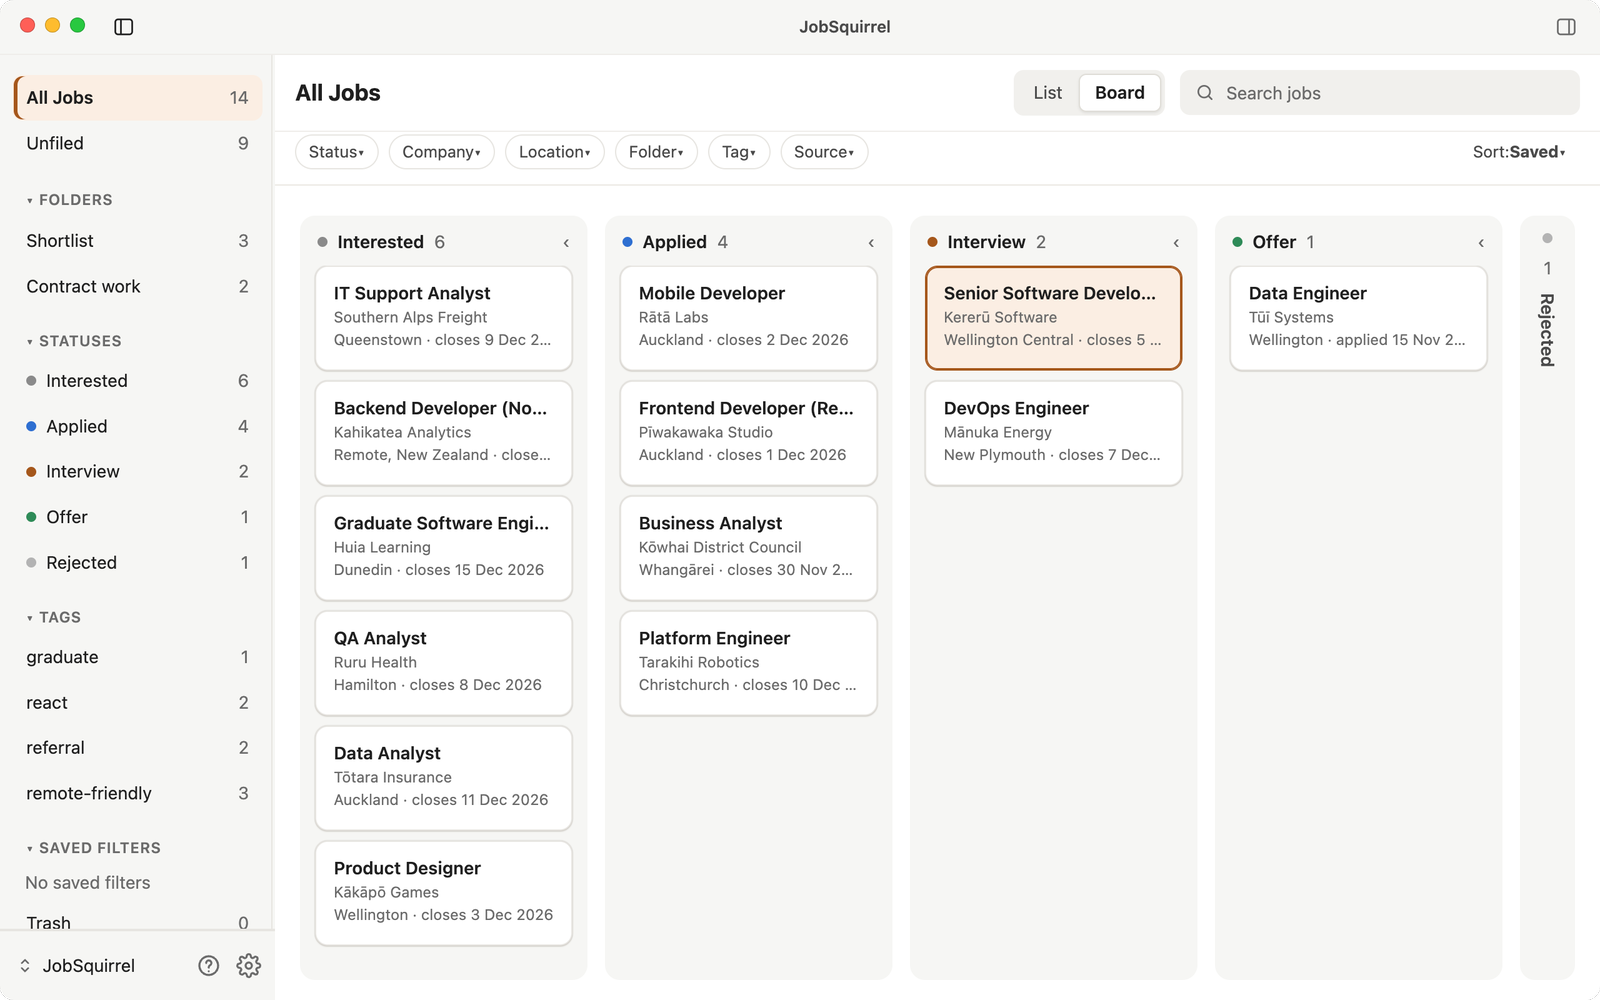
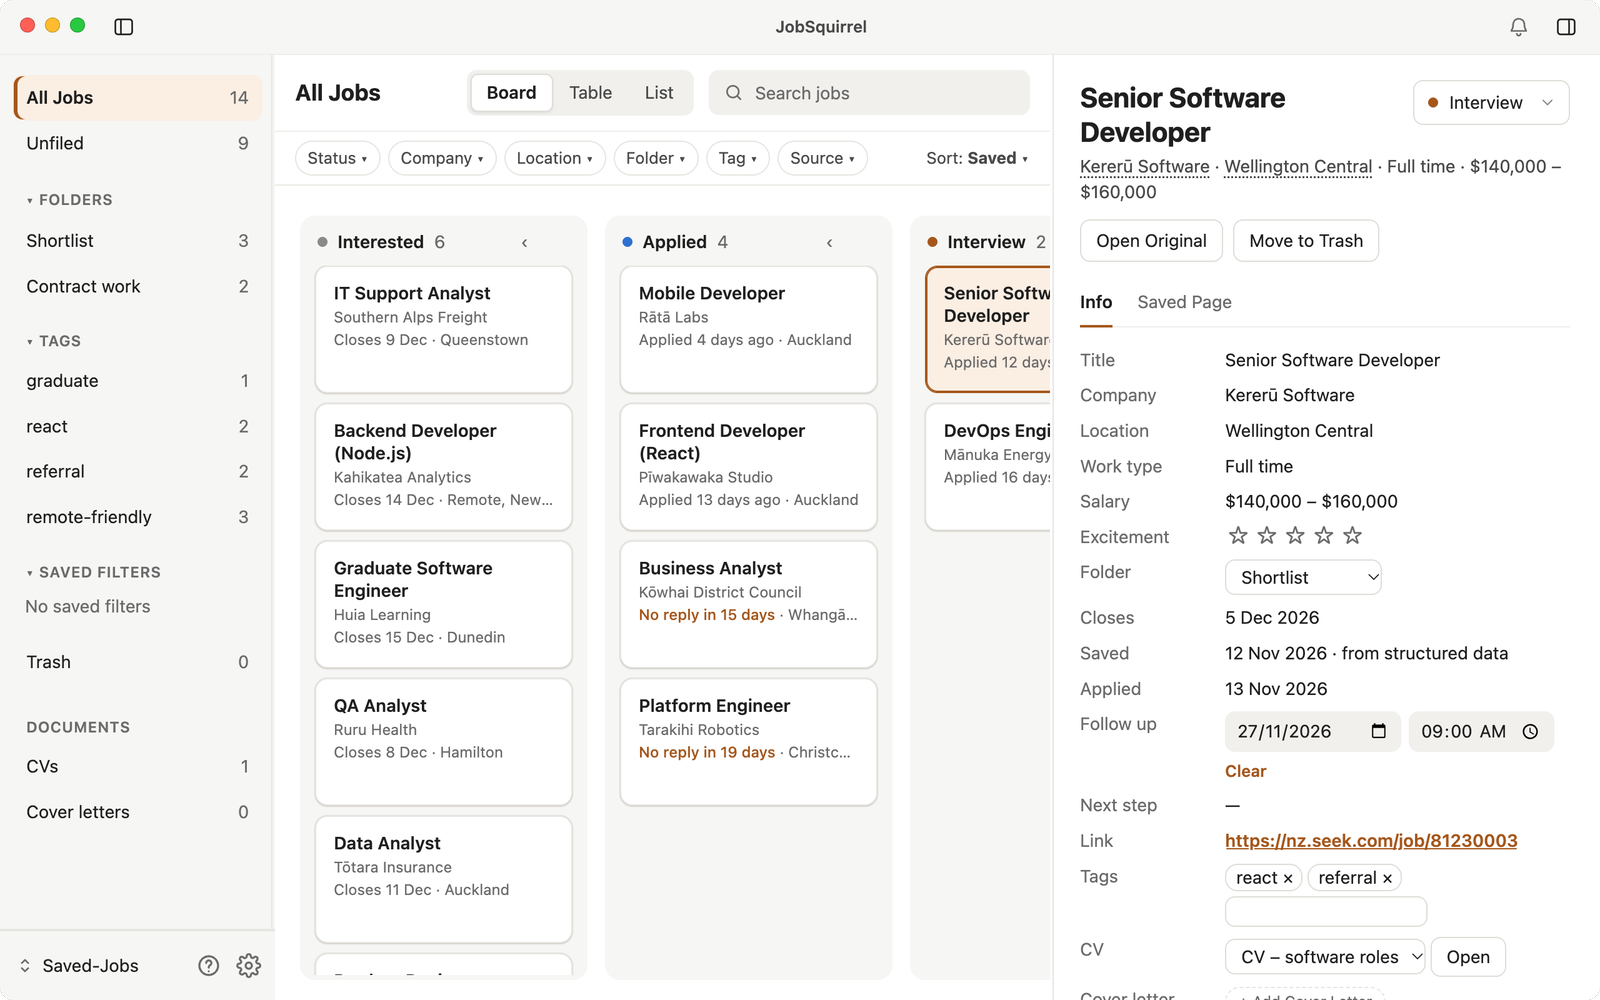
Your personal all-in-one job hunting dashboard: new home page, a contact page, Windows

diff --git a/index.html b/index.html
@@ -3,12 +3,13 @@
 <head>
 <meta charset="utf-8">
 <meta name="viewport" content="width=device-width, initial-scale=1">
-<title>JobSquirrel</title>
-<meta name="description" content="JobSquirrel saves job ads from Seek, Trade Me Jobs, LinkedIn, Indeed and other New Zealand job sites before they disappear, and keeps track of every application. Free to try, and your data stays on your computer.">
+<title>JobSquirrel: your all-in-one job hunting dashboard</title>
+<meta name="description" content="Your personal all-in-one job hunting dashboard. Save any job ad with one click, and see every application, deadline, interview and CV on one screen. Free, for Mac and Windows.">
 <link rel="icon" href="squirrel.svg" type="image/svg+xml">
-<meta property="og:title" content="JobSquirrel">
-<meta property="og:description" content="Save job ads before they disappear, and keep track of every application. Your data stays on your computer.">
+<meta property="og:title" content="JobSquirrel: your all-in-one job hunting dashboard">
+<meta property="og:description" content="Save any job ad with one click. See every application, deadline, interview and CV on one screen.">
 <meta property="og:url" content="https://jobsquirrel.nz/">
+<meta property="og:image" content="https://jobsquirrel.nz/screens/board.png">
 <link rel="stylesheet" href="style.css">
 </head>
 <body>
@@ -18,9 +19,9 @@
     <a class="brand" href="/"><img src="squirrel.svg" alt="" width="40" height="33"> JobSquirrel</a>
     <nav aria-label="Main">
       <a href="#how">How it works</a>
-      <a href="#privacy">Privacy</a>
       <a href="#faq">FAQ</a>
       <a href="help.html">Help</a>
+      <a href="contact.html">Contact</a>
     </nav>
   </header>
 </div>
@@ -48,74 +49,59 @@
 <g class="drop"><ellipse class="nut" cx="150" cy="44" rx="7" ry="9"/><path class="cap" d="M142 39 C142 31 158 31 158 39 Z"/>
 <ellipse class="ink thin" cx="150" cy="44" rx="7" ry="9"/><path class="ink thin" d="M142 39 C142 31 158 31 158 39 Z"/></g>
 </g></svg>
-    <h1>Stash job ads <u>before they disappear.</u></h1>
-    <p>JobSquirrel saves the job ads you care about from Seek, Trade Me Jobs, LinkedIn, Indeed and other New Zealand job sites with one click, and keeps track of every application. Free to try, and everything stays on your computer.</p>
+    <h1>Your personal all-in-one <u>job hunting dashboard.</u></h1>
+    <p>Save any job ad with one click. Then see every application, deadline, interview and CV on one screen.</p>
     <div class="cta">
-      <span class="btn primary" aria-disabled="true">Download for macOS — coming soon</span>
-      <a class="btn ghost" href="https://github.com/jobsquirrel">Follow on GitHub</a>
+      <a class="btn primary" href="https://github.com/foxnz/landfern/releases/latest">Download</a>
+      <a class="btn ghost" href="https://github.com/foxnz/landfern">Star on GitHub</a>
     </div>
-    <p class="note">New Zealand has no wild squirrels. Now it has one.</p>
+    <p class="small">Free · No account · Mac and Windows</p>
+    <figure class="shot shot-main">
+      <img src="screens/board.png" width="1600" height="1000"
+           alt="The JobSquirrel board: jobs as cards in columns from Interested to Offer, with the selected job's salary, closing date, follow-up, tags and CV at the right.">
+    </figure>
   </div>
 
-  <section id="peek">
+  <section id="why">
     <div class="wrap">
-      <h2>A peek inside</h2>
-      <p class="lead">Every job you save, with its ad, your notes, the CV you sent and what happens next, in one calm window.</p>
-      <figure class="shot shot-main">
-        <img src="screens/job-details.png" width="1600" height="1000" loading="lazy"
-             alt="The JobSquirrel window: folders, statuses and tags on the left, saved jobs in the middle, and the selected job's details on the right, with its folder, closing date, follow-up date, tags, the CV sent and notes.">
-      </figure>
-      <div class="shots">
-        <figure class="shot">
-          <img src="screens/board.png" width="1600" height="1000" loading="lazy"
-               alt="Board view: jobs as cards in five columns, Interested, Applied, Interview, Offer and Rejected.">
-          <figcaption>See every application at a glance.</figcaption>
-        </figure>
-        <figure class="shot">
-          <img src="screens/first-open.png" width="1600" height="1000" loading="lazy"
-               alt="The first time you open JobSquirrel: three steps to save your first job, and where your jobs are kept.">
-          <figcaption>Open it and start. No setup.</figcaption>
-        </figure>
-        <figure class="shot">
-          <img src="screens/extension-popup-crop.png" width="720" height="450" loading="lazy"
-               alt="The Chrome extension's popup over a job ad: the job is saved, with its folder, status and tags ready to change.">
-          <figcaption>One click saves the job ad you're reading.</figcaption>
-        </figure>
+      <h2>Sound familiar?</h2>
+      <div class="swaps">
+        <div class="card"><p><s>The ad is gone before your interview.</s></p><p><b>You keep your own copy of it.</b></p></div>
+        <div class="card"><p><s>“Which CV did I send them?”</s></p><p><b>It’s right there, with the job.</b></p></div>
+        <div class="card"><p><s>You missed the closing date.</s></p><p><b>You get a reminder first.</b></p></div>
+        <div class="card"><p><s>A spreadsheet you stopped updating.</s></p><p><b>A board. Drag a card, done.</b></p></div>
       </div>
-      <p class="fine">Screenshots of the app with made-up jobs.</p>
     </div>
   </section>
 
   <section id="how">
     <div class="wrap">
-      <h2>How it works</h2>
-      <p class="lead">A desktop app and a small Chrome extension work together. No account, no sign-up.</p>
+      <h2>See a job. Click. Done.</h2>
+      <figure class="shot shot-main">
+        <img src="screens/save-job.gif" width="1600" height="1000" loading="lazy"
+             alt="On a job ad in Chrome, a click on the squirrel saves the job, and Show in App opens it in JobSquirrel.">
+      </figure>
       <div class="steps">
-        <div class="card">
-          <div class="step">1</div>
-          <h3>Spot a job</h3>
-          <p>Browse Seek, Trade Me Jobs, LinkedIn, graduate and volunteer sites, or any company’s careers page, the way you always do.</p>
-        </div>
+        <div class="card"><div class="step">1</div><h3>Spot a job</h3><p>On any job site, the way you always do.</p></div>
         <svg class="arrow" viewBox="0 0 46 30" aria-hidden="true"><path class="ink thin" d="M3 18 C15 8 28 22 40 13 M33 9 L41 13 L35 20" filter="url(#rough)"/></svg>
-        <div class="card">
-          <div class="step">2</div>
-          <h3>Squirrel it away</h3>
-          <p>One click saves the job details and a full copy of the page into the JobSquirrel app.</p>
-        </div>
+        <div class="card"><div class="step">2</div><h3>Click the squirrel</h3><p>What the ad says (title, company, pay, closing date) and a full copy of it are saved.</p></div>
         <svg class="arrow" viewBox="0 0 46 30" aria-hidden="true"><path class="ink thin" d="M3 18 C15 8 28 22 40 13 M33 9 L41 13 L35 20" filter="url(#rough)"/></svg>
-        <div class="card">
-          <div class="step">3</div>
-          <h3>Track every application</h3>
-          <p>Add notes, tags and the CV you sent, and move each job along as things happen.</p>
-        </div>
+        <div class="card"><div class="step">3</div><h3>Follow it to the offer</h3><p>Notes, interviews, CVs, tags and reminders, all with the job.</p></div>
       </div>
+    </div>
+  </section>
+
+  <section id="sites">
+    <div class="wrap">
+      <h2>Works where you look</h2>
+      <p class="chips"><span>Seek</span> <span>LinkedIn</span> <span>Indeed</span> <span>Trade Me Jobs</span> <span>SEEK Grad</span> <span>Prosple</span> <span>Student Job Search</span> <span>SEEK Volunteer</span> <span>Hays</span> <span>Education Gazette</span></p>
+      <p class="lead">Any other job page works too: you get the full copy, and fill in what it doesn’t say.</p>
     </div>
   </section>
 
   <section id="journey">
     <div class="wrap">
       <h2>From “ooh” to “I got it!”</h2>
-      <p class="lead">Every job moves through the same five steps. The squirrel has felt all of them.</p>
       <div class="statuses">
         <div class="card status"><svg viewBox="10 10 190 175" class="sq " role="img" aria-label="Squirrel looking at a job ad"><g filter="url(#rough)">
 <g class="tailg"><path class="tail" transform="translate(2.5 2)" d="M118 166 C176 166 194 110 178 74 C164 42 124 28 110 52 C102 67 117 78 132 72 C152 66 158 100 148 126 C140 146 126 152 112 151 Z"/><path class="ink" d="M118 166 C176 166 194 110 178 74 C164 42 124 28 110 52 C102 67 117 78 132 72 C152 66 158 100 148 126 C140 146 126 152 112 151"/>
@@ -214,55 +200,20 @@
     </div>
   </section>
 
-  <section id="features">
+  <section id="privacy">
     <div class="wrap">
-      <h2>Why a squirrel?</h2>
-      <p class="lead">Job ads vanish when they close, often just before your interview. JobSquirrel keeps your own copy.</p>
-      <div class="grid">
-        <div class="card">
-          <div class="icon" aria-hidden="true">📸</div>
-          <h3>A copy that stays</h3>
-          <p>Every saved job keeps a full snapshot of the ad, so you can reread it after the listing is gone.</p>
-        </div>
-        <div class="card">
-          <div class="icon" aria-hidden="true">🗂</div>
-          <h3>Board and list views</h3>
-          <p>See every application at a glance, sort them into folders, and filter by status, company, tag and more.</p>
-        </div>
-        <div class="card">
-          <div class="icon" aria-hidden="true">📎</div>
-          <h3>Your documents, in one place</h3>
-          <p>Keep the CV and cover letter you sent next to the job you sent them for.</p>
-        </div>
-        <div class="card">
-          <div class="icon" aria-hidden="true">💾</div>
-          <h3>Back up any time</h3>
-          <p>Export your whole library to a single file whenever you like.</p>
-        </div>
-      </div>
+      <h2>Yours, and only yours</h2>
+      <p class="lead">Your jobs are plain files in a folder on your computer. No account, no tracking. The extension reads a job ad only when you click it, and JobSquirrel sends nothing unless you turn on a feature that needs to.</p>
     </div>
   </section>
 
-  <section id="privacy">
+  <section id="try">
     <div class="wrap">
-      <h2>Your data stays with you</h2>
-      <p class="lead">JobSquirrel has no server. It does not send anything off your computer: no analytics, no crash reports, no tracking.</p>
-      <div class="grid">
-        <div class="card">
-          <div class="icon" aria-hidden="true">🏠</div>
-          <h3>Plain files on your computer</h3>
-          <p>Your jobs, snapshots and documents live in a JobSquirrel folder on your computer. You own it, and you can move it any time.</p>
-        </div>
-        <div class="card">
-          <div class="icon" aria-hidden="true">👀</div>
-          <h3>Only what you save</h3>
-          <p>The extension only captures the page you are looking at, and only when you click the squirrel to save it.</p>
-        </div>
-        <div class="card">
-          <div class="icon" aria-hidden="true">☁</div>
-          <h3>Sync if you want</h3>
-          <p>Put your JobSquirrel folder in iCloud Drive or Google Drive to keep a copy in your own cloud.</p>
-        </div>
+      <h2>It’s in beta. Help shape it.</h2>
+      <p class="lead">Something broken, confusing or missing? Tell us, and a person reads it.</p>
+      <div class="cta left">
+        <a class="btn primary" href="https://github.com/foxnz/landfern/releases/latest">Download</a>
+        <a class="btn ghost" href="contact.html">Send feedback</a>
       </div>
     </div>
   </section>
@@ -271,35 +222,16 @@
     <div class="wrap">
       <h2>Questions</h2>
       <details>
-        <summary>Is it really free?</summary>
-        <p>Yes, trying JobSquirrel is free. Each download comes with short trial terms. The licence for later versions is not decided yet.</p>
+        <summary>What do I need?</summary>
+        <p>A Mac with macOS 14 or later, or a 64-bit PC with Windows 10 or 11, and Google Chrome.</p>
       </details>
       <details>
-        <summary>When can I get it?</summary>
-        <p>The first version is being built now. It will be on the <a href="https://github.com/foxnz/landfern/releases">download page</a> when it is ready.</p>
+        <summary>Windows warns me about the download</summary>
+        <p>The Windows version is not signed yet. Click <b>More info</b>, then <b>Run anyway</b>. If there is no <b>Run anyway</b>, it can’t be installed on that PC yet. Download it only from this website or our <a href="https://github.com/foxnz/landfern/releases/latest">download page</a>.</p>
       </details>
       <details>
-        <summary>Which computers and browsers does it work with?</summary>
-        <p>The first version is for macOS with Google Chrome. Other systems may come later.</p>
-      </details>
-      <details>
-        <summary>Where should I download it from?</summary>
-        <p>Only from the official <a href="https://github.com/foxnz/landfern/releases">download page</a>, or from a link on this website. Each release lists checksums so you can check your download. Copies from anywhere else are not ours, even if they use the JobSquirrel name.</p>
-      </details>
-      <details>
-        <summary>Which job sites are supported?</summary>
-        <p>JobSquirrel reads the job details on these sites:</p>
-        <ul>
-          <li><b>Job boards:</b> Seek, Trade Me Jobs, LinkedIn, Indeed</li>
-          <li><b>Graduate jobs:</b> SEEK Grad, Prosple, Student Job Search</li>
-          <li><b>Volunteering:</b> SEEK Volunteer and regional volunteer centres</li>
-          <li><b>Sector and employer sites:</b> Education Gazette, Hays, and many employers’ own careers pages</li>
-        </ul>
-        <p>You can save any other job page too. JobSquirrel always keeps a full copy of the page, and fills in whatever details the page provides; you can pick or type the rest. More sites come in later versions. See <a href="help.html#sites">Supported sites</a>.</p>
-      </details>
-      <details>
-        <summary>The extension says “Open JobSquirrel to save”</summary>
-        <p>The extension saves jobs into the JobSquirrel app on your Mac, so the app must be running. Open JobSquirrel, then click <b>Try Again</b> in the popup. For more help, see <a href="help.html#trouble">Something wrong?</a></p>
+        <summary>The extension says JobSquirrel isn’t running</summary>
+        <p>Open the JobSquirrel app, then click <b>Try Again</b>. More in <a href="help.html#trouble">Something wrong?</a></p>
       </details>
     </div>
   </section>
@@ -307,8 +239,8 @@
 
 <footer>
   <div class="wrap">
-    <span>JobSquirrel · Made in New Zealand</span>
-    <span><a href="https://github.com/jobsquirrel">GitHub</a></span>
+    <span>JobSquirrel · Made in New Zealand, which has no wild squirrels. Now it has one.</span>
+    <span><a href="contact.html">Contact</a> · <a href="https://github.com/foxnz/landfern">GitHub</a></span>
   </div>
 </footer>
 

diff --git a/help.html b/help.html
@@ -45,9 +45,9 @@
     <a class="brand" href="index.html"><img src="squirrel.svg" alt="" width="40" height="33"> JobSquirrel</a>
     <nav aria-label="Main">
       <a href="index.html#how">How it works</a>
-      <a href="index.html#privacy">Privacy</a>
       <a href="index.html#faq">FAQ</a>
       <a href="help.html" aria-current="page">Help</a>
+      <a href="contact.html">Contact</a>
     </nav>
   </header>
 
@@ -68,27 +68,34 @@
 
     <main class="doc">
       <h1>How to use JobSquirrel</h1>
-      <p class="lead">JobSquirrel has two parts: an app on your Mac that keeps your jobs, and a Chrome extension that saves job ads into it. This page shows you how to set up both and use them day to day.</p>
+      <p class="lead">JobSquirrel has two parts: an app on your computer that keeps your jobs, and a Chrome extension that saves job ads into it. This page shows you how to set up both and use them day to day.</p>
 
       <section id="install">
         <h2>Install</h2>
         <h3>1. The app</h3>
         <ol class="do">
-          <li>Download the newest <b>JobSquirrel</b> for Mac from the <a href="https://github.com/foxnz/landfern/releases/latest">download page</a>.</li>
-          <li>Open the download and drag JobSquirrel into your <b>Applications</b> folder.</li>
-          <li>The first time, macOS may say it can't check the developer. Click <b>Done</b>, open <b>System Settings → Privacy &amp; Security</b>, scroll down and click <b>Open Anyway</b> next to JobSquirrel, then confirm. You only do this once.</li>
-          <li>JobSquirrel opens with a library called <b>JobSquirrel</b> in your home folder. That is where your jobs are kept. You can start using it straight away.</li>
+          <li>Download the newest <b>JobSquirrel</b> for Mac (macOS 14 or later) or Windows (10 or 11, 64-bit) from the <a href="https://github.com/foxnz/landfern/releases/latest">download page</a>.</li>
+          <li>Mac: open the download and drag JobSquirrel into your <b>Applications</b> folder. Windows: open the download; if Windows warns you, click <b>More info</b>, then <b>Run anyway</b>.</li>
+          <li>JobSquirrel opens with a library called <b>Saved-Jobs</b> in your home folder. That is where your jobs are kept. You can start using it straight away.</li>
         </ol>
-        <div class="tip"><b>Why the warning?</b> A release that isn't signed with JobSquirrel's Apple Developer ID shows this warning; signed releases open without it. Only download JobSquirrel from the official download page or a link on this website, and check the checksum listed with each release if you like.</div>
+        <div class="tip">Only download JobSquirrel from the official download page or a link on this website, and check the checksum listed with each release if you like.</div>
 
         <h3>2. The Chrome extension</h3>
         <ol class="do">
-          <li>In JobSquirrel, choose <b>Help → Get the Extension…</b> and <b>Show Extension Folder</b>. JobSquirrel keeps this folder up to date.</li>
-          <li>In Chrome, go to <kbd>chrome://extensions</kbd> and turn on <b>Developer mode</b> (top right).</li>
-          <li>Click <b>Load unpacked</b> and choose that folder.</li>
+          <li>In JobSquirrel, click <b>Show Folder</b> on the first screen, or choose <b>Help → Get the Extension…</b>. JobSquirrel keeps this folder up to date.</li>
+          <li>Click <b>Open Extensions</b>, or go to <kbd>chrome://extensions</kbd> in Chrome, and turn on <b>Developer mode</b> (top right). Leave it on: Chrome turns the extension off without it. On Windows the button copies the address: press <kbd>Ctrl</kbd> <kbd>V</kbd> in Chrome.</li>
+          <li>Drag the folder onto that page, or click <b>Load unpacked</b> and choose it.</li>
           <li>Click the puzzle piece in Chrome's toolbar and pin <b>JobSquirrel</b>, so the squirrel is always one click away.</li>
         </ol>
         <div class="tip">Keep the unzipped folder where it is. Chrome loads the extension from it, so deleting the folder removes the extension.</div>
+
+        <h3 id="uninstall">Uninstall</h3>
+        <p>Your jobs stay in your library folder until you delete it yourself.</p>
+        <ol class="do">
+          <li>In JobSquirrel's Settings, turn off opening at login. Then quit JobSquirrel and drag it from <b>Applications</b> to the Trash. On Windows, uninstall it in <b>Settings → Apps</b>.</li>
+          <li>In Chrome, go to <kbd>chrome://extensions</kbd> and remove the extension.</li>
+          <li>On a Mac, to remove its settings too, delete <b>Saved-Jobs-Extension</b> in your home folder, and <b>Application Support/JobSquirrel</b> and <b>Logs/JobSquirrel</b> in your Library folder.</li>
+        </ol>
       </section>
 
       <section id="save">
@@ -199,8 +206,7 @@
         </details>
         <details>
           <summary>Still stuck?</summary>
-          <p>Tell us on the <a href="https://github.com/jobsquirrel">JobSquirrel GitHub page</a>. Please say what you clicked and what you saw; a screenshot helps. In the app, <b>Help → Open Log</b> shows what JobSquirrel recorded. The log can name files in your library, so read it before you share it.</p>
-          <!-- TODO: add hello@jobsquirrel.nz and the booking link once forwarding and booking are set up. -->
+          <p><a href="contact.html">Tell us</a>: in the app, <b>Help → Send Feedback…</b> opens the same page.</p>
         </details>
       </section>
 
@@ -228,7 +234,7 @@
 <footer>
   <div class="wrap">
     <span>JobSquirrel · Made in New Zealand</span>
-    <span><a href="https://github.com/jobsquirrel">GitHub</a></span>
+    <span><a href="contact.html">Contact</a> · <a href="https://github.com/foxnz/landfern">GitHub</a></span>
   </div>
 </footer>
 

diff --git a/contact.html b/contact.html
@@ -1,0 +1,47 @@
+<!doctype html>
+<html lang="en">
+<head>
+<meta charset="utf-8">
+<meta name="viewport" content="width=device-width, initial-scale=1">
+<title>Contact JobSquirrel</title>
+<meta name="description" content="Tell us what is broken, confusing or missing in JobSquirrel.">
+<link rel="icon" href="squirrel.svg" type="image/svg+xml">
+<link rel="stylesheet" href="style.css">
+</head>
+<body>
+
+<div class="wrap">
+  <header class="top">
+    <a class="brand" href="index.html"><img src="squirrel.svg" alt="" width="40" height="33"> JobSquirrel</a>
+    <nav aria-label="Main">
+      <a href="index.html#how">How it works</a>
+      <a href="index.html#faq">FAQ</a>
+      <a href="help.html">Help</a>
+      <a href="contact.html" aria-current="page">Contact</a>
+    </nav>
+  </header>
+</div>
+
+<main class="wrap contact">
+  <h1>Tell us</h1>
+  <p class="lead">JobSquirrel is in beta. If something is broken, confusing or missing, we want to know.</p>
+  <!-- The only place the address is written. The app, the help page and the download page all link to this page. -->
+  <p><a class="btn primary" href="mailto:mzha508@gmail.com?subject=JobSquirrel">mzha508@gmail.com</a></p>
+  <h2>What helps us fix it</h2>
+  <ul>
+    <li>What you clicked, and what happened.</li>
+    <li>Mac or Windows, and the version (<b>About JobSquirrel</b>).</li>
+    <li>A screenshot, or the link of the job ad.</li>
+    <li>If we ask for it: <b>Help → Open Log</b>. It can name files in your library, so read it before you send it.</li>
+  </ul>
+</main>
+
+<footer>
+  <div class="wrap">
+    <span>JobSquirrel · Made in New Zealand</span>
+    <span><a href="https://github.com/foxnz/landfern">GitHub</a></span>
+  </div>
+</footer>
+
+</body>
+</html>

diff --git a/style.css b/style.css
@@ -46,6 +46,20 @@ nav a:hover { color: var(--accent); }
 .btn.primary { background: #d07a32; color: #fff; }
 .btn.ghost { background: var(--card); color: var(--fg); }
 .btn[aria-disabled="true"] { cursor: default; }
+.hero p.small { margin-top: 16px; font-size: .95rem; }
+.hero .shot-main { margin: 40px 0 0; }
+.cta.left { justify-content: flex-start; }
+.swaps { display: grid; grid-template-columns: 1fr 1fr; gap: 18px; margin-top: 24px; }
+.swaps .card { padding: 18px 24px 20px; }
+.swaps s { text-decoration-color: #d07a32; text-decoration-thickness: 2px; }
+.swaps b { font-family: var(--hand); font-weight: 400; font-size: 1.6rem; line-height: 1.2; color: var(--fg); }
+.swaps .card p + p { margin-top: 6px; }
+@media (max-width: 600px) { .swaps { grid-template-columns: 1fr; } }
+.chips { display: flex; flex-wrap: wrap; gap: 10px; }
+.chips span { background: var(--card); border: 1.5px solid var(--line); border-radius: 99px; padding: 4px 14px; }
+.contact { padding-top: 16px; padding-bottom: 48px; }
+.contact h1 { font-size: clamp(2.2rem, 6vw, 3rem); margin: 0; }
+.contact .btn { max-width: 100%; overflow-wrap: anywhere; }
 .hero .note { margin-top: 22px; font-family: var(--hand); font-size: 1.2rem; color: var(--accent); }
 
 section { padding: 48px 0; border-top: 1px dashed var(--line); }
